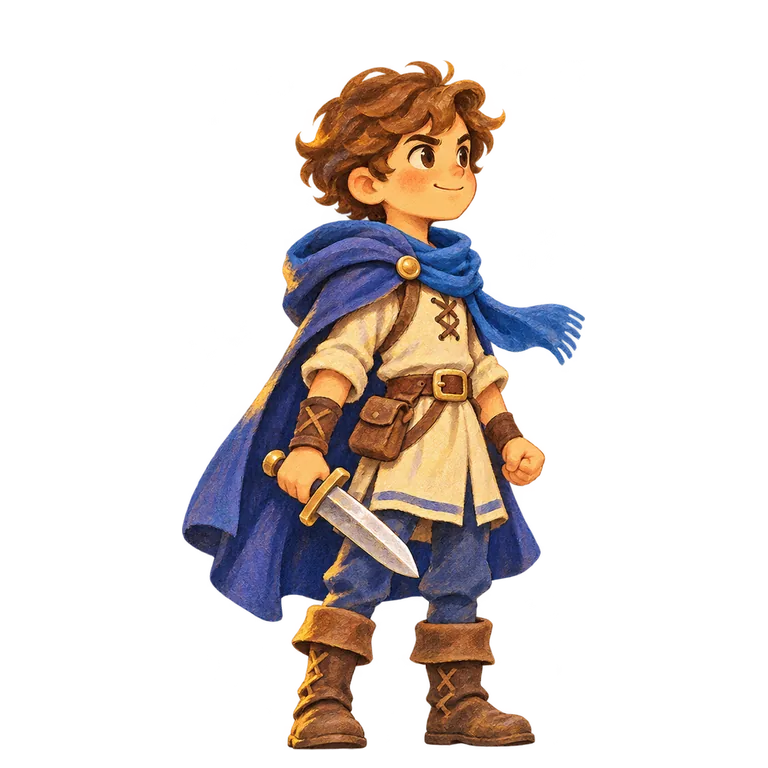
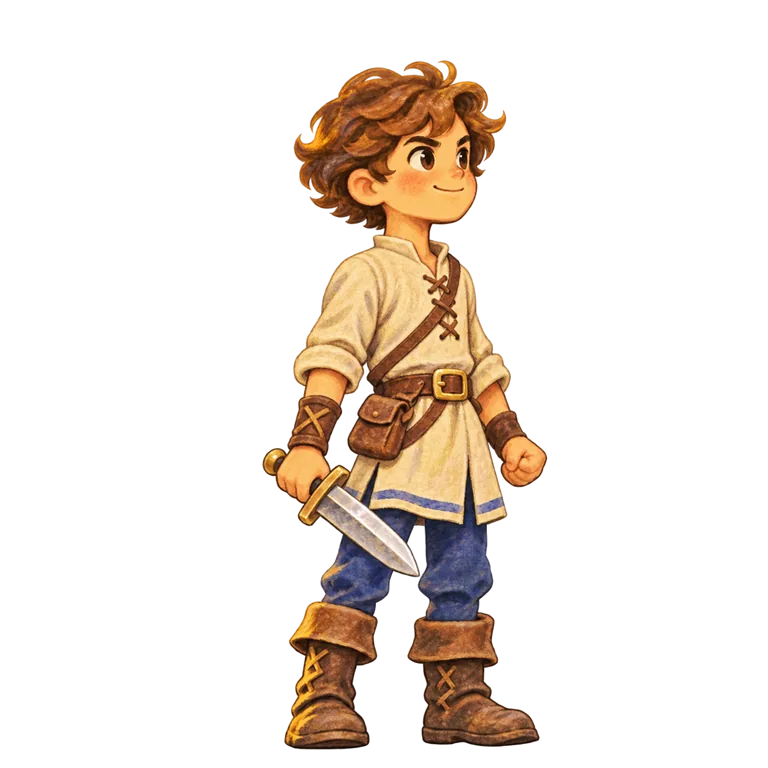
Publish game from private repository

Changed region(s): [[0.2188, 0.0625, 0.7812, 1.0]]

diff --git a/index.html b/index.html
@@ -1149,11 +1149,10 @@ function render(){
 function home() {
   const world = WORLDS[s.world];
   const continuing = s.step > 0 || s.battle || s.cleared.length > 0;
-  const hero = paintedHero(BATTLE_ARENAS[2]);
   const nextLevel = xpToNextLevel(s.level);
   return `<div class="home-page">
     <section class="home-cover" aria-labelledby="home-title">
-      <div class="home-character" aria-hidden="true">${heroVisual(hero)}</div>
+      <div class="home-character" aria-hidden="true">${heroVisual()}</div>
       <div class="home-intro">
         <h1 id="home-title">Riddarens resa</h1>
         <p>Träna gångertabellerna 2–9 och samla monsterkort på vägen.</p>
@@ -1254,15 +1253,10 @@ function comboMeter() {
 function questionUI(){if(!s.question)chooseQuestion();let q=s.question;return `<div class="controls"><div class="question"><div class="steptrack">${s.phase==='battle'?'⚔ STRID':'👣 ETT RÄTT SVAR = ETT STEG'}</div><div class="math">${q.a} × ${q.b} = ?</div><div class="answer">${escapeHtml(s.answer)||'＿'}</div><div class="message" id="message">${escapeHtml(notice)} ${s.hint?`<span class="hint">Räkna: ${Array.from({length:q.b},()=>q.a).join(' + ')} = ?</span>`:''}</div><button class="btn secondary small" data-action="hint">💡 Ledtråd</button></div><div class="keypad">${['1','2','3','4','5','6','7','8','9','⌫','0','✓'].map(k=>`<button class="${k==='✓'?'go':''}" data-key="${k}">${k}</button>`).join('')}</div></div>`}
 function rarity(id){return id%25===0?'Legendarisk':id%10===0?'Episk':id%4===0?'Sällsynt':'Vanlig'}
 function equipmentSummary(){return ['weapon','helmet','armor','shield'].map(slot=>ITEMS.find(i=>i.id===s.equipment[slot])).filter(Boolean).map(i=>i.art+' '+i.name).join(' · ')||'Äventyrarens startutrustning'}
-function gearOverlay(){let e=s.equipment;let weapon=e.weapon,helmet=e.helmet,armor=e.armor,shield=e.shield;if(!weapon&&!helmet&&!armor&&!shield)return '';let blade=weapon==='dragonblade'?'#f16a39':weapon==='fire'?'#ffb32c':weapon==='silver'?'#d9ecf4':weapon==='steel'?'#a9c7dc':'#c3c4bd';let metal=armor==='plate'?'#c2d3e2':armor==='armor'?'#899fb2':'#805d40';return `<svg class="gear-overlay" viewBox="0 0 256 256" aria-hidden="true">${armor?`<path d="M101 112 L155 112 L163 171 Q127 187 91 168 Z" fill="${metal}" stroke="#e5c891" stroke-width="5"/><path d="M127 118 L127 172 M100 141 L156 141" stroke="#344453" stroke-width="5"/>`:''}${helmet?`<path d="M93 78 Q91 34 127 30 Q163 34 161 79 L155 99 L100 99Z" fill="${helmet==='crown'?'#c8a54b':'#8fa2af'}" stroke="#f1d58a" stroke-width="5"/><path d="M99 79 L156 79" stroke="#182b38" stroke-width="9"/>`:''}${shield?`<path d="M57 144 L96 144 L103 194 Q82 220 61 207 Q47 185 57 144Z" fill="${shield==='oakshield'?'#8a6035':'#5276a0'}" stroke="#e5c78a" stroke-width="6"/><path d="M78 152 L78 203 M60 177 L97 177" stroke="#f3dca2" stroke-width="5"/>`:''}${weapon?`<g transform="translate(0 0)"><path d="M183 174 L211 190" stroke="#d7b477" stroke-width="9" stroke-linecap="round"/><path d="M193 176 L224 118 L233 63 L207 108 L183 172 Z" fill="${blade}" stroke="#f8f0cf" stroke-width="3"/><path d="M181 170 L214 186" stroke="#b99151" stroke-width="8"/>${weapon==='fire'||weapon==='dragonblade'?'<path d="M211 133 Q202 115 222 91 Q216 115 233 109 Q229 129 211 133" fill="#ff7834" opacity=".85"/>':''}</g>`:''}</svg>`}
 // Paths in an arena theme refer to artwork shipped with the app.
 const BATTLE_ARENAS = {
   2: {
     layers: { background: 'assets/backgrounds/riddarskolan-arena.webp' },
-    heroes: {
-      adventurer: 'assets/characters/riddarskolan-aventyrare.webp',
-      knight: 'assets/characters/riddarskolan-riddare.webp'
-    },
     enemies: {},
     boss: 'assets/monster-6.svg',
     placeholderEnemy: card => 'assets/monster-' + (card - 1) + '.svg'
@@ -1273,15 +1267,7 @@ function activeArena() {
   return s.battle ? BATTLE_ARENAS[WORLDS[s.world].n] : undefined;
 }
 
-function heroVariant() {
-  return s.equipment.armor || s.level >= 5 ? 'knight' : 'adventurer';
-}
-
-function paintedHero(theme) {
-  const equipped = Object.values(s.equipment).some(id => ITEMS.some(item => item.id === id));
-  if (equipped) return BATTLE_ARENAS[2].heroes.adventurer;
-  return theme?.heroes?.[heroVariant()];
-}
+const HERO_IMAGE = 'assets/characters/riddarskolan-aventyrare.webp';
 
 function paintedGearOverlay(equipment) {
   const part = slot => ITEMS.find(item => item.id === equipment[slot]);
@@ -1329,9 +1315,17 @@ function paintedGearOverlay(equipment) {
       </filter>
     </defs>
     ${armor ? `<g data-worn-slot="armor" data-worn-item="${armor.id}" filter="url(#gear-shadow)" stroke-linejoin="round">
-      ${forest(armor) ? `<path d="M159 121Q141 130 141 154Q131 191 104 229Q89 253 92 274L108 282Q109 301 144 309L151 286Q143 261 146 247Q130 251 133 230L143 207 151 174 166 143Z" fill="url(#gear-cape)" stroke="#2f3b2b" stroke-width="2" filter="url(#gear-grain)"/>
-        <path d="M148 158Q134 216 101 270M139 249Q129 278 139 301" fill="none" stroke="#afba7d" stroke-width="2.5" opacity=".5"/>
-        <path d="M137 182Q126 219 109 242M119 274Q117 290 135 302" fill="none" stroke="#304430" stroke-width="5" opacity=".55"/>` : ''}
+      <g data-armor-cape="${forest(armor) ? 'green' : 'blue'}">
+        <path d="M160 119Q141 130 141 154Q131 191 104 229Q89 253 92 274L108 282Q109 301 144 309L151 286Q143 261 146 247Q130 251 133 230L143 207 151 174 166 143Z"
+          fill="url(#gear-${forest(armor) ? 'cape' : 'plume'})" stroke="${forest(armor) ? '#2f3b2b' : '#263752'}" stroke-width="2" filter="url(#gear-grain)"/>
+        <path d="M148 158Q134 216 101 270M139 249Q129 278 139 301" fill="none"
+          stroke="${forest(armor) ? '#afba7d' : '#9daed1'}" stroke-width="2.5" opacity=".5"/>
+        <path d="M137 182Q126 219 109 242M119 274Q117 290 135 302" fill="none"
+          stroke="${forest(armor) ? '#304430' : '#233751'}" stroke-width="5" opacity=".55"/>
+        <path d="M145 147Q146 125 168 122Q179 124 183 138L175 148Q162 141 145 147Z"
+          fill="url(#gear-${forest(armor) ? 'cape' : 'plume'})" stroke="${forest(armor) ? '#2f3b2b' : '#263752'}" stroke-width="2"/>
+        <circle cx="175" cy="137" r="3.6" fill="url(#gear-edge)" stroke="#6c4a2c" stroke-width="1.3"/>
+      </g>
       <path d="M175 137Q193 149 217 143L232 151Q240 160 243 173L234 188 239 213 226 232Q200 240 178 224L166 204 169 182 156 176Z" fill="${finish(armor)}" stroke="#493426" stroke-width="2.5" filter="url(#gear-grain)"/>
       <path d="M176 142Q199 156 222 148M164 173q9-8 19-12M170 204Q200 220 235 200M177 219Q202 233 229 216" fill="none" stroke="url(#gear-edge)" stroke-width="3"/>
       ${forest(armor) ? `<path d="M174 158 178 174 174 198M231 169l-4 26M181 216q19 13 35 9" fill="none" stroke="#e6bf7b" stroke-width="1.6" stroke-dasharray="2 3"/>
@@ -1374,10 +1368,8 @@ function paintedGearOverlay(equipment) {
   </svg>`;
 }
 
-function heroVisual(painted, equipment = s.equipment) {
-  const image = painted || 'assets/' + heroVariant() + '.svg';
-  const layers = painted ? paintedGearOverlay(equipment) : gearOverlay();
-  return '<div class="hero-visual"><img src="' + image + '" alt="Din riddare">' + layers + '</div>';
+function heroVisual(equipment = s.equipment) {
+  return `<div class="hero-visual"><img src="${HERO_IMAGE}" alt="Din riddare">${paintedGearOverlay(equipment)}</div>`;
 }
 
 function sceneGear() {
@@ -1408,9 +1400,7 @@ function scene(intro = false) {
   const worldBackground = route?.image || `assets/world-${table}.svg`;
   const routeX = route ? 4 + (s.step - route.start) * 18 : 0;
   const heroX = b ? 16 : route ? routeX : Math.min(53, 12 + s.step * 3.5);
-  const theme = arena || (route && BATTLE_ARENAS[table]);
-  const painted = paintedHero(theme);
-  const gear = painted ? sceneGear() : '';
+  const gear = sceneGear();
   const palette = ['#efbf65','#b4e8de','#c9a17b','#8cc66e','#ff733b','#ff9a47','#a88be0','#9dc8ff'];
   const sceneArt = arena
     ? Object.entries(arena.layers).map(([layer, path]) => `--arena-${layer}:url('${path}')`).join(';')
@@ -1424,7 +1414,7 @@ function scene(intro = false) {
   const travel = b ? '' : `${marker ? '<div class="travel-marker">' + marker + '</div>' : ''}
     <div class="travel-progress"><div style="width:${s.step/12*100}%"></div></div>`;
   const actors = `<div class="hero-spot"></div>
-    <div class="hero" id="hero" title="${escapeHtml(equipmentSummary())}" style="left:${heroX}%">${heroVisual(painted)}</div>
+    <div class="hero" id="hero" title="${escapeHtml(equipmentSummary())}" style="left:${heroX}%">${heroVisual()}</div>
     ${b ? `<div class="enemy" id="enemy"><img src="${monsterImage(b, arena)}" alt="${escapeHtml(b.name)}"></div>` : ''}`;
   const heads = b ? `<div class="battleheads">
     <div>🛡 Hjälten${gear}<div class="healthbar"><div style="width:${100*s.hp/maxHp()}%;background:#5caa77"></div></div></div>
@@ -1499,10 +1489,8 @@ function gearPicker(owned) {
 }
 
 function wardrobePreview(equipment, trying) {
-  const heroes = BATTLE_ARENAS[2].heroes;
-  const image = Object.values(equipment).some(Boolean) ? heroes.adventurer : heroes[heroVariant()];
   return `<div class="wardrobe-preview">
-    <div class="wardrobe-portrait">${heroVisual(image, equipment)}</div>
+    <div class="wardrobe-portrait">${heroVisual(equipment)}</div>
     <div class="wardrobe-look"><h3>${trying ? 'Prova på hjälten' : 'Din hjälte'}</h3>
       <dl>${GEAR_SLOTS.map(([slot,label]) => {
         const item = ITEMS.find(item => item.id === equipment[slot]);

diff --git a/sw.js b/sw.js
@@ -1,1 +1,1 @@
-const CACHE='multiplikationsriket-v135-utrustningsgrafik';const ASSETS=['./','./index.html','./manifest.webmanifest','./icon.svg',...Array.from({length:8},(_,i)=>'./assets/world-'+(i+2)+'.svg'),...Array.from({length:50},(_,i)=>'./assets/card-'+String(i+1).padStart(2,'0')+'.svg'),...Array.from({length:7},(_,i)=>'./assets/monster-'+i+'.svg'),'./assets/backgrounds/riddarskolan-arena.webp','./assets/backgrounds/riddarens-resa.webp','./assets/backgrounds/riddarskolan-skolvag.webp','./assets/backgrounds/riddarskolan-stenbro.webp','./assets/backgrounds/riddarskolan-borgport.webp','./assets/world-map-portrait.png','./assets/multiplikationsriket-kartbakgrund.webp','./assets/characters/riddarskolan-aventyrare.webp','./assets/characters/riddarskolan-riddare.webp','./assets/adventurer.svg','./assets/knight.svg','./assets/shield.svg'];self.addEventListener('install',e=>{e.waitUntil(caches.open(CACHE).then(c=>c.addAll(ASSETS)).then(()=>self.skipWaiting()))});self.addEventListener('activate',e=>{e.waitUntil(caches.keys().then(keys=>Promise.all(keys.filter(k=>k!==CACHE).map(k=>caches.delete(k)))).then(()=>self.clients.claim()))});self.addEventListener('fetch',e=>{if(e.request.method!=='GET')return;e.respondWith((e.request.mode==='navigate'?fetch(e.request).then(response=>{if(response.ok){const copy=response.clone();caches.open(CACHE).then(c=>c.put(e.request,copy))}return response}).catch(()=>caches.match(e.request)):caches.match(e.request).then(r=>r||fetch(e.request).then(response=>{if(response.ok&&new URL(e.request.url).origin===location.origin){const copy=response.clone();caches.open(CACHE).then(c=>c.put(e.request,copy))}return response}))))})
+const CACHE='multiplikationsriket-v136-mantel-med-rustning';const ASSETS=['./','./index.html','./manifest.webmanifest','./icon.svg',...Array.from({length:8},(_,i)=>'./assets/world-'+(i+2)+'.svg'),...Array.from({length:50},(_,i)=>'./assets/card-'+String(i+1).padStart(2,'0')+'.svg'),...Array.from({length:7},(_,i)=>'./assets/monster-'+i+'.svg'),'./assets/backgrounds/riddarskolan-arena.webp','./assets/backgrounds/riddarens-resa.webp','./assets/backgrounds/riddarskolan-skolvag.webp','./assets/backgrounds/riddarskolan-stenbro.webp','./assets/backgrounds/riddarskolan-borgport.webp','./assets/world-map-portrait.png','./assets/multiplikationsriket-kartbakgrund.webp','./assets/characters/riddarskolan-aventyrare.webp','./assets/shield.svg'];self.addEventListener('install',e=>{e.waitUntil(caches.open(CACHE).then(c=>c.addAll(ASSETS)).then(()=>self.skipWaiting()))});self.addEventListener('activate',e=>{e.waitUntil(caches.keys().then(keys=>Promise.all(keys.filter(k=>k!==CACHE).map(k=>caches.delete(k)))).then(()=>self.clients.claim()))});self.addEventListener('fetch',e=>{if(e.request.method!=='GET')return;e.respondWith((e.request.mode==='navigate'?fetch(e.request).then(response=>{if(response.ok){const copy=response.clone();caches.open(CACHE).then(c=>c.put(e.request,copy))}return response}).catch(()=>caches.match(e.request)):caches.match(e.request).then(r=>r||fetch(e.request).then(response=>{if(response.ok&&new URL(e.request.url).origin===location.origin){const copy=response.clone();caches.open(CACHE).then(c=>c.put(e.request,copy))}return response}))))})
